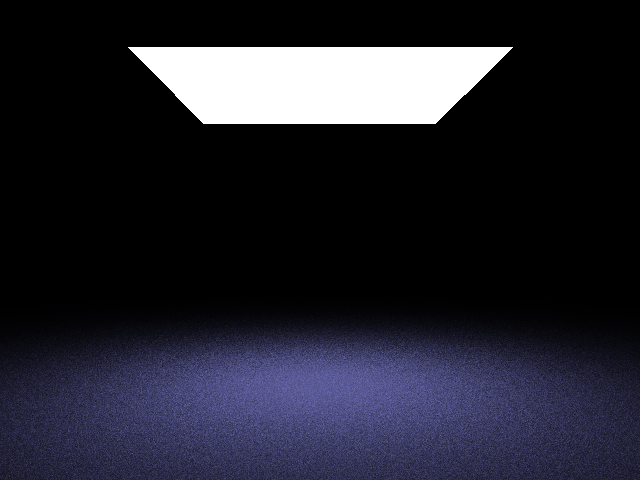
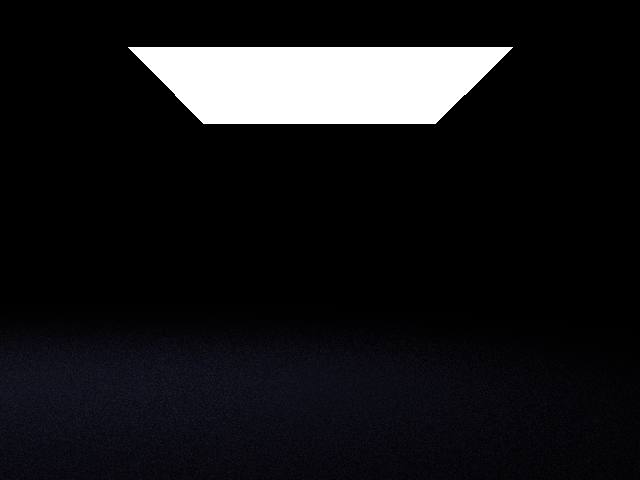
Add plumbing and samples per pixel for HW3.

Changed region(s): [[0.0, 0.6562, 1.0, 1.0]]

diff --git a/homework-1/Scene.cpp b/homework-1/Scene.cpp
@@ -13,6 +13,7 @@ Scene::Scene()
 	integrator = "raytracer";
 	lightSamples = 1;
 	lightStratify = 0;
+	spp = 1;
 }
 
 
@@ -68,6 +69,12 @@ int Scene::Parse(LPCWSTR path)
 				else if (cmd == "lightsamples") {
 					if (ReadVals(s, 1, values)) {
 						lightSamples = (int)values[0];
+					}
+					else { return ERR_INVALID_FILE; }
+				}
+				else if (cmd == "spp") {
+					if (ReadVals(s, 1, values)) {
+						spp = (int)values[0];
 					}
 					else { return ERR_INVALID_FILE; }
 				}

diff --git a/homework-1/OptiXTracer.cpp b/homework-1/OptiXTracer.cpp
@@ -949,8 +949,12 @@ void OptiXTracer::Trace(const Scene & scene)
 	else if (scene.integrator == "direct") {
 		params.integrator = DIRECT;
 	}
+	else if (scene.integrator == "pathtracer") {
+		params.integrator = PATHTRACER;
+	}
 	params.light_samples = scene.lightSamples;
 	params.light_stratify = scene.lightStratify;
+	params.spp = scene.spp;
 
 	SetupCamera(scene);
 	SetupLights(scene);

diff --git a/homework-1/Types.h b/homework-1/Types.h
@@ -22,6 +22,7 @@ enum IntegratorType
 	RAYTRACER,
 	ANALYTICDIRECT,
 	DIRECT,
+	PATHTRACER
 };
 
 struct Params
@@ -40,6 +41,7 @@ struct Params
 	unsigned int integrator;
 	unsigned int light_samples;
 	unsigned int light_stratify;
+	unsigned int spp;
 };
 
 

diff --git a/homework-1/Scene.h b/homework-1/Scene.h
@@ -80,7 +80,7 @@ public:
 class Scene
 {
 public:
-	int width, height, maxDepth, lightSamples;
+	int width, height, maxDepth, lightSamples, spp;
 	int lightStratify;
 	std::string outputFileName;
 	std::string integrator;
